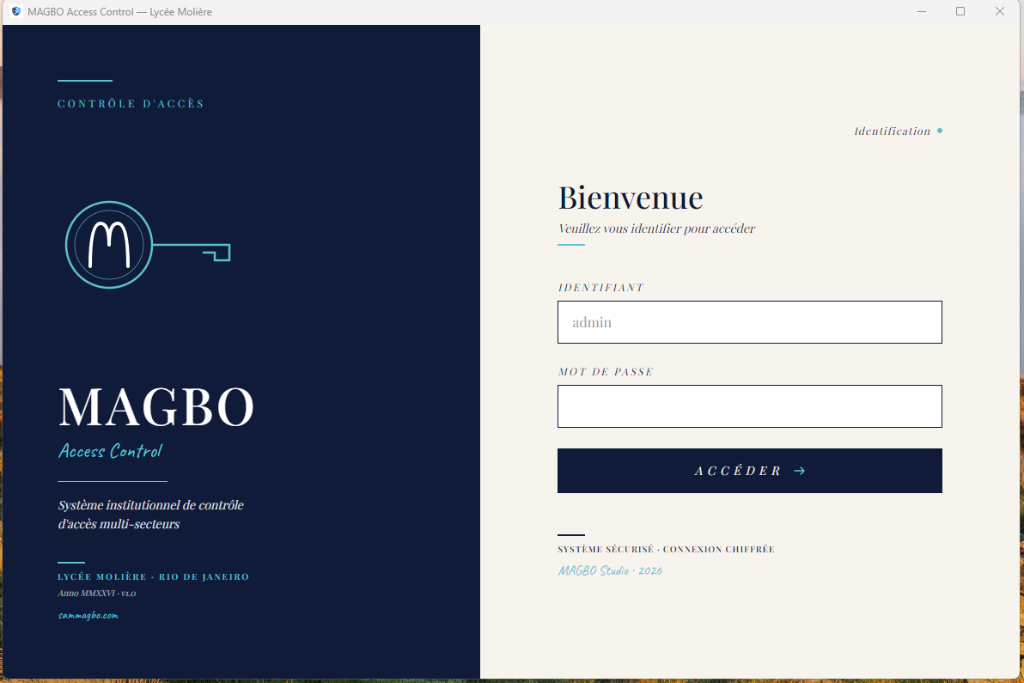
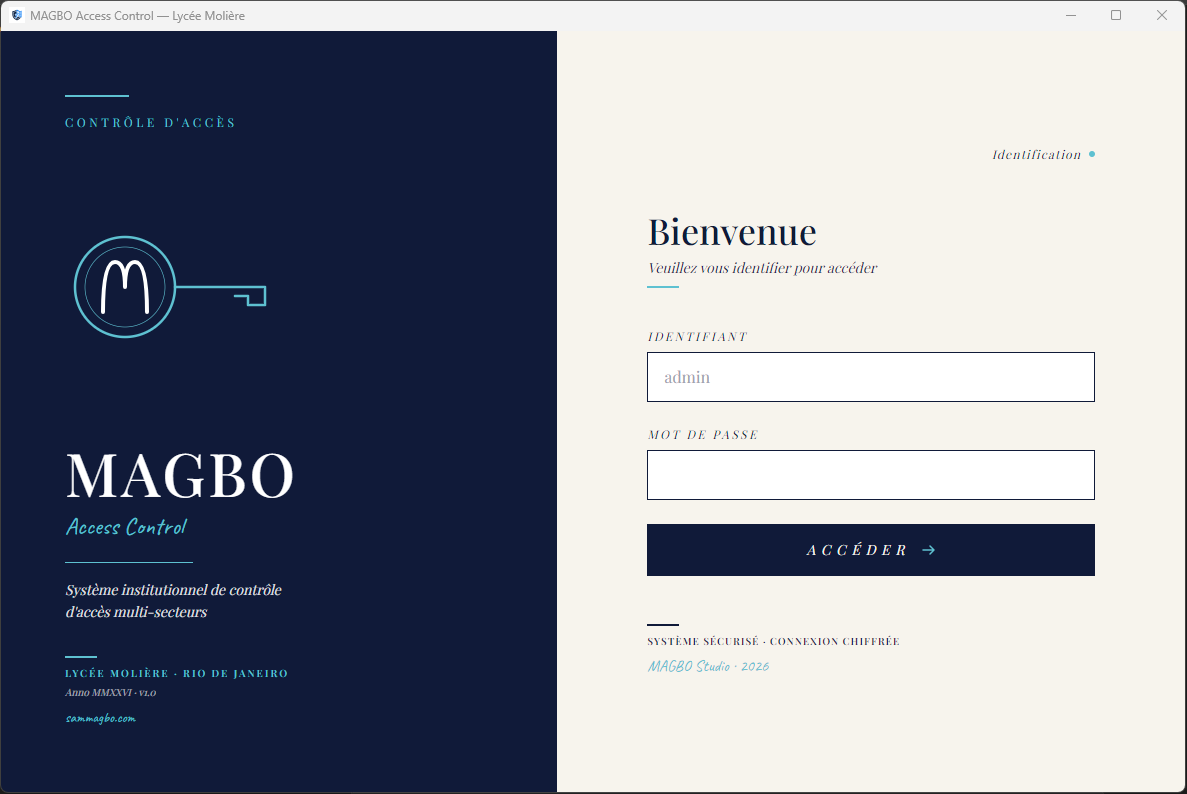
docs(readme): add Rapport General + PIN screenshots, refresh login and dashboard

diff --git a/README.md b/README.md
@@ -76,6 +76,10 @@ L'interface est fournie sous forme d'application **desktop Electron**, le backen
 <!-- (à capturer) docs/screenshots/rapport-general.png -->
 ![Rapport Général — KPIs, alertes, par élève](docs/screenshots/rapport-general.png)
 
+### Accès administrateur — Saisie du PIN
+
+![Modal de saisie du PIN administrateur](docs/screenshots/pin-admin.png)
+
 ### Panneau administratif
 
 ![Panneau administratif avec filtres et Pronote](docs/screenshots/admin-panel.png)